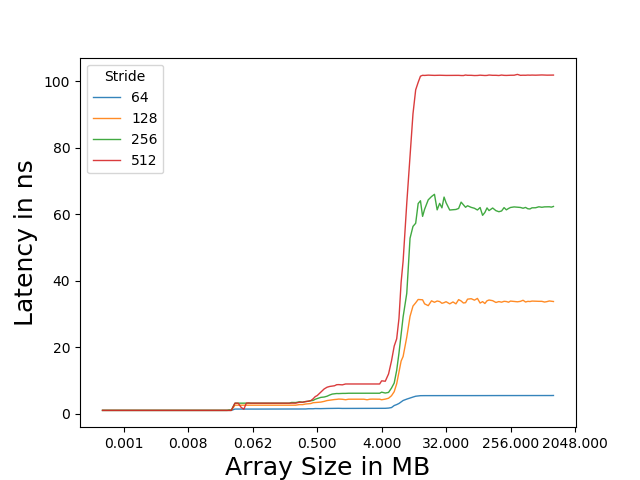
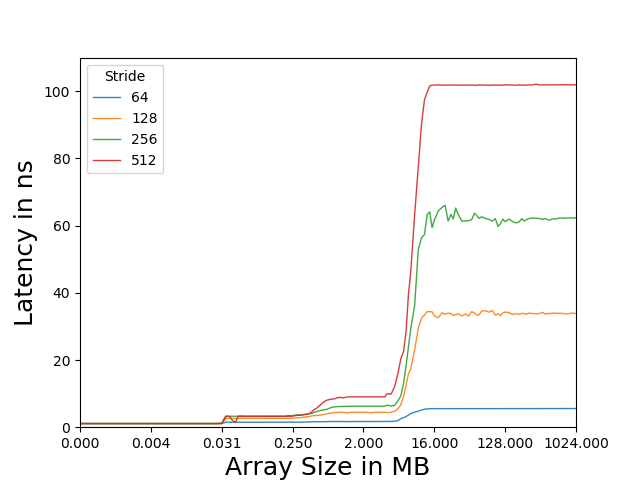
Plot: adding index bounds

diff --git a/python_scripts/lat_mem_rd.py b/python_scripts/lat_mem_rd.py
@@ -48,6 +48,9 @@ def plot(df, mem_size, result_dir):
                  linewidth=1, alpha=0.9, label=column)
     ax1.set_xscale("log", basex=2)
     ax1.get_xaxis().set_major_formatter(matplotlib.ticker.FormatStrFormatter('%.3f'))
+    axes = plt.gca()
+    axes.set_xlim([2**(-11),1024])
+    axes.set_ylim([0,110])
     plt.legend(title="Stride")
     plt.xlabel('Array Size in MB', fontsize=18)
     plt.ylabel('Latency in ns', fontsize=18)
